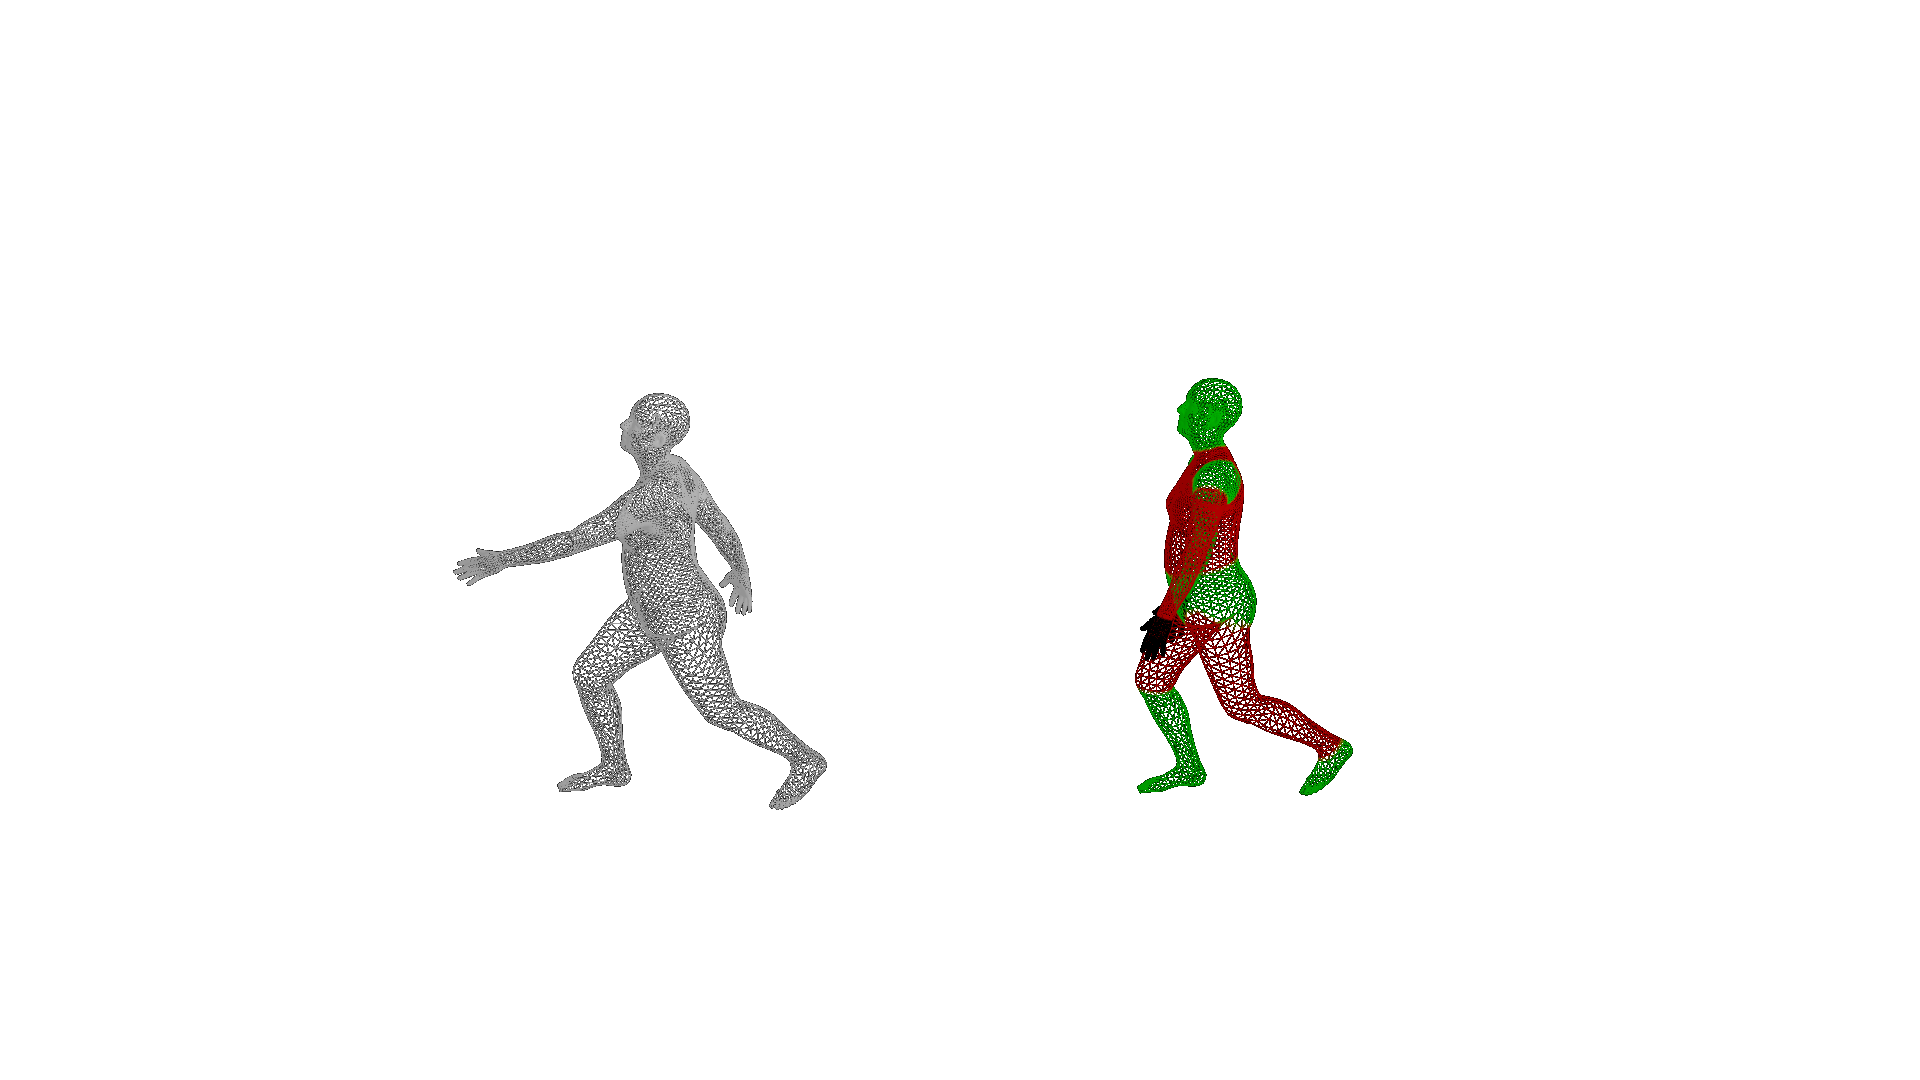
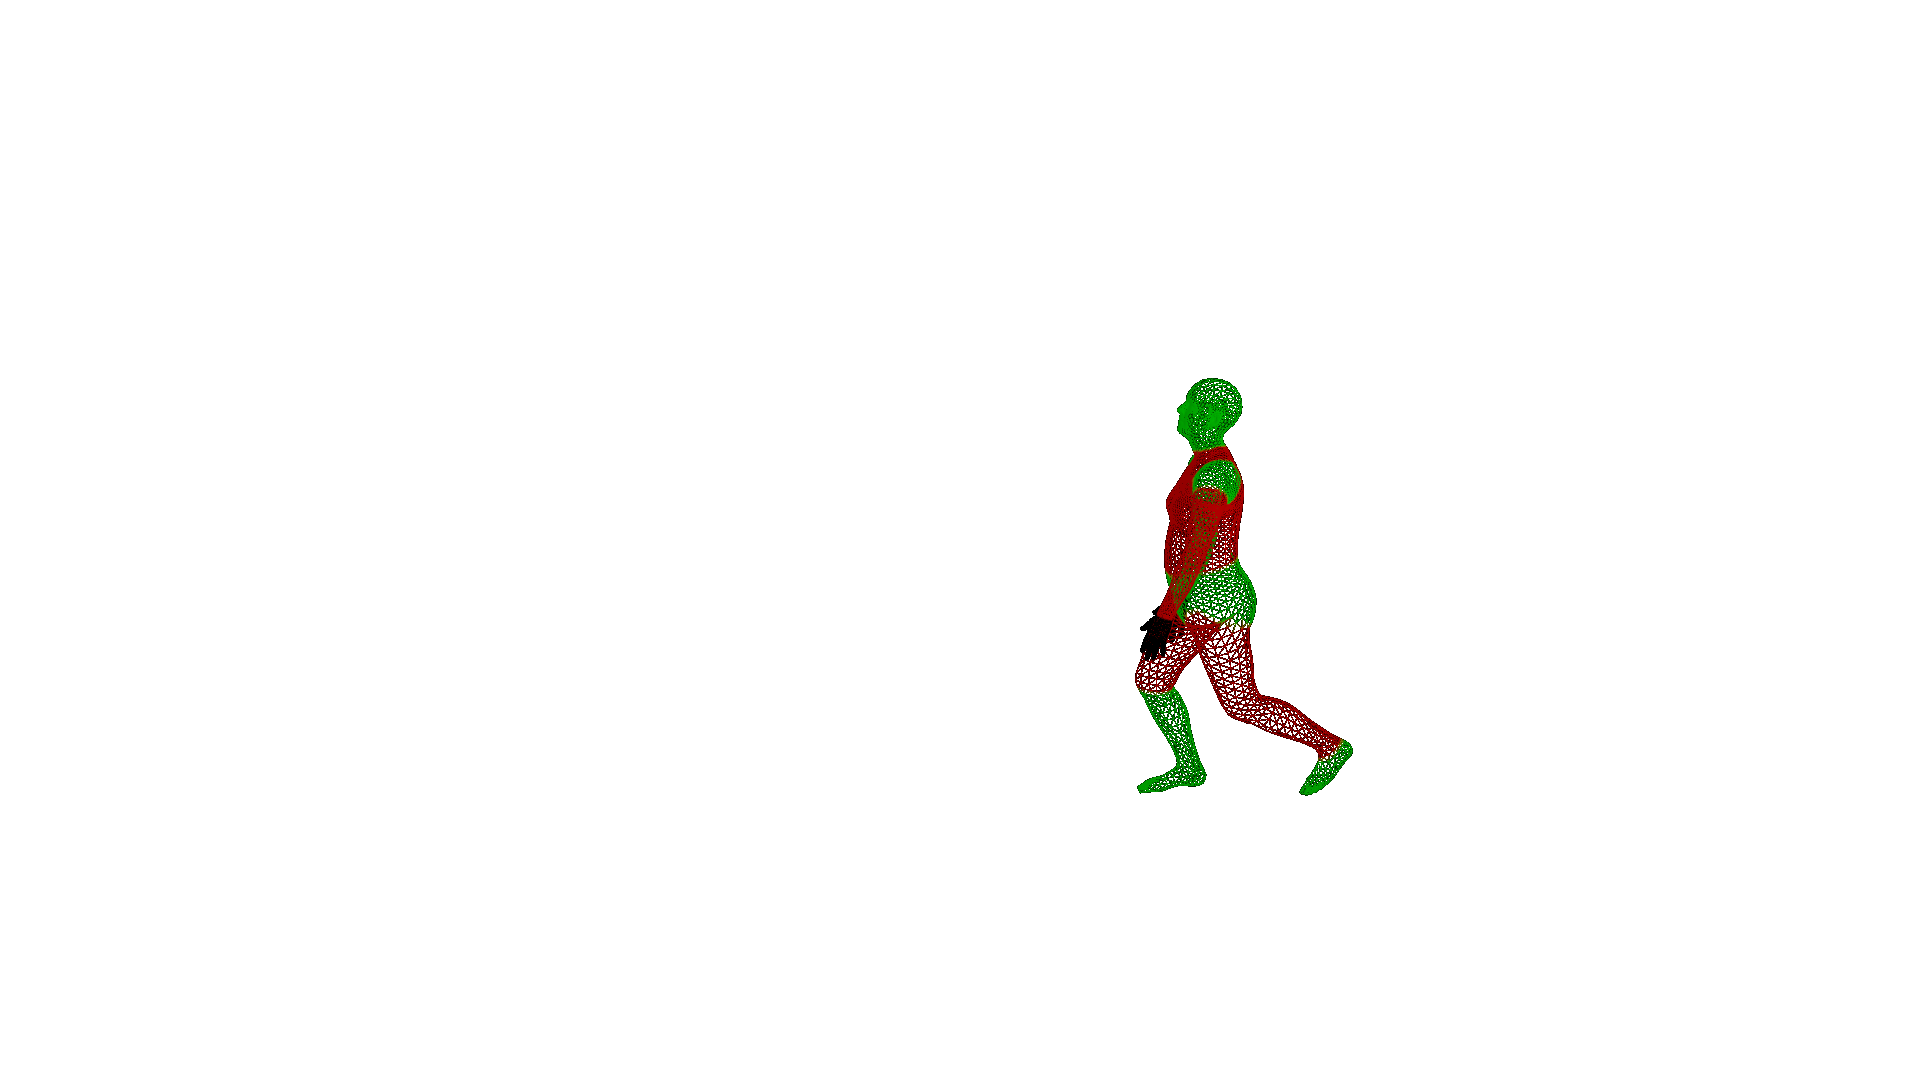
Update README and image

Changed region(s): [[0.2188, 0.3667, 0.4375, 0.7639]]

diff --git a/README.md b/README.md
@@ -2,11 +2,11 @@
 
 This repository contains two major components. 
 
-1. Code to run 5 3D Human Pose Estimators on a single, or multiple RGB video(s). It then renders the results - i.e. the 3D meshes and 3D skeletons - as follows.
+1. Code to run 5 3D Human Pose Estimators on a single, or multiple RGB video(s). It then renders the results - i.e. the 3D meshes and 3D skeletons - on top of a white background.
 
 https://user-images.githubusercontent.com/17827337/178693894-c85a8489-2ed3-42d9-af64-9d3d4cf68325.mp4
 
-2. Code to compare two 3D human meshes - i.e. comparing the discrepancies in the angles of the limbs - and visualising the discrepancies as follows. Here, the grey mesh is the reference (or correct) mesh. The colored mesh is the input mesh, i.e. the mesh that we want to compare with the reference. The limbs of this mesh are colored based on the correctness. Green means that limb position is within the accepted error range w.r.t. reference, and red means it is outside of the accepted error range. Note, this is done in 3D.
+2. Code to compare two 3D human meshes - i.e. comparing the discrepancies in the angles of the limbs - and visualising the discrepancies as follows. The colored mesh is the input mesh, i.e. the mesh that we want to compare with the reference. The limbs of this mesh are colored based on the correctness. Green means that limb position is within the accepted error range w.r.t. reference, and red means it is outside of the accepted error range.
 
 ![Comparing 3D meshes](compare_two_humans/output.png)
 
